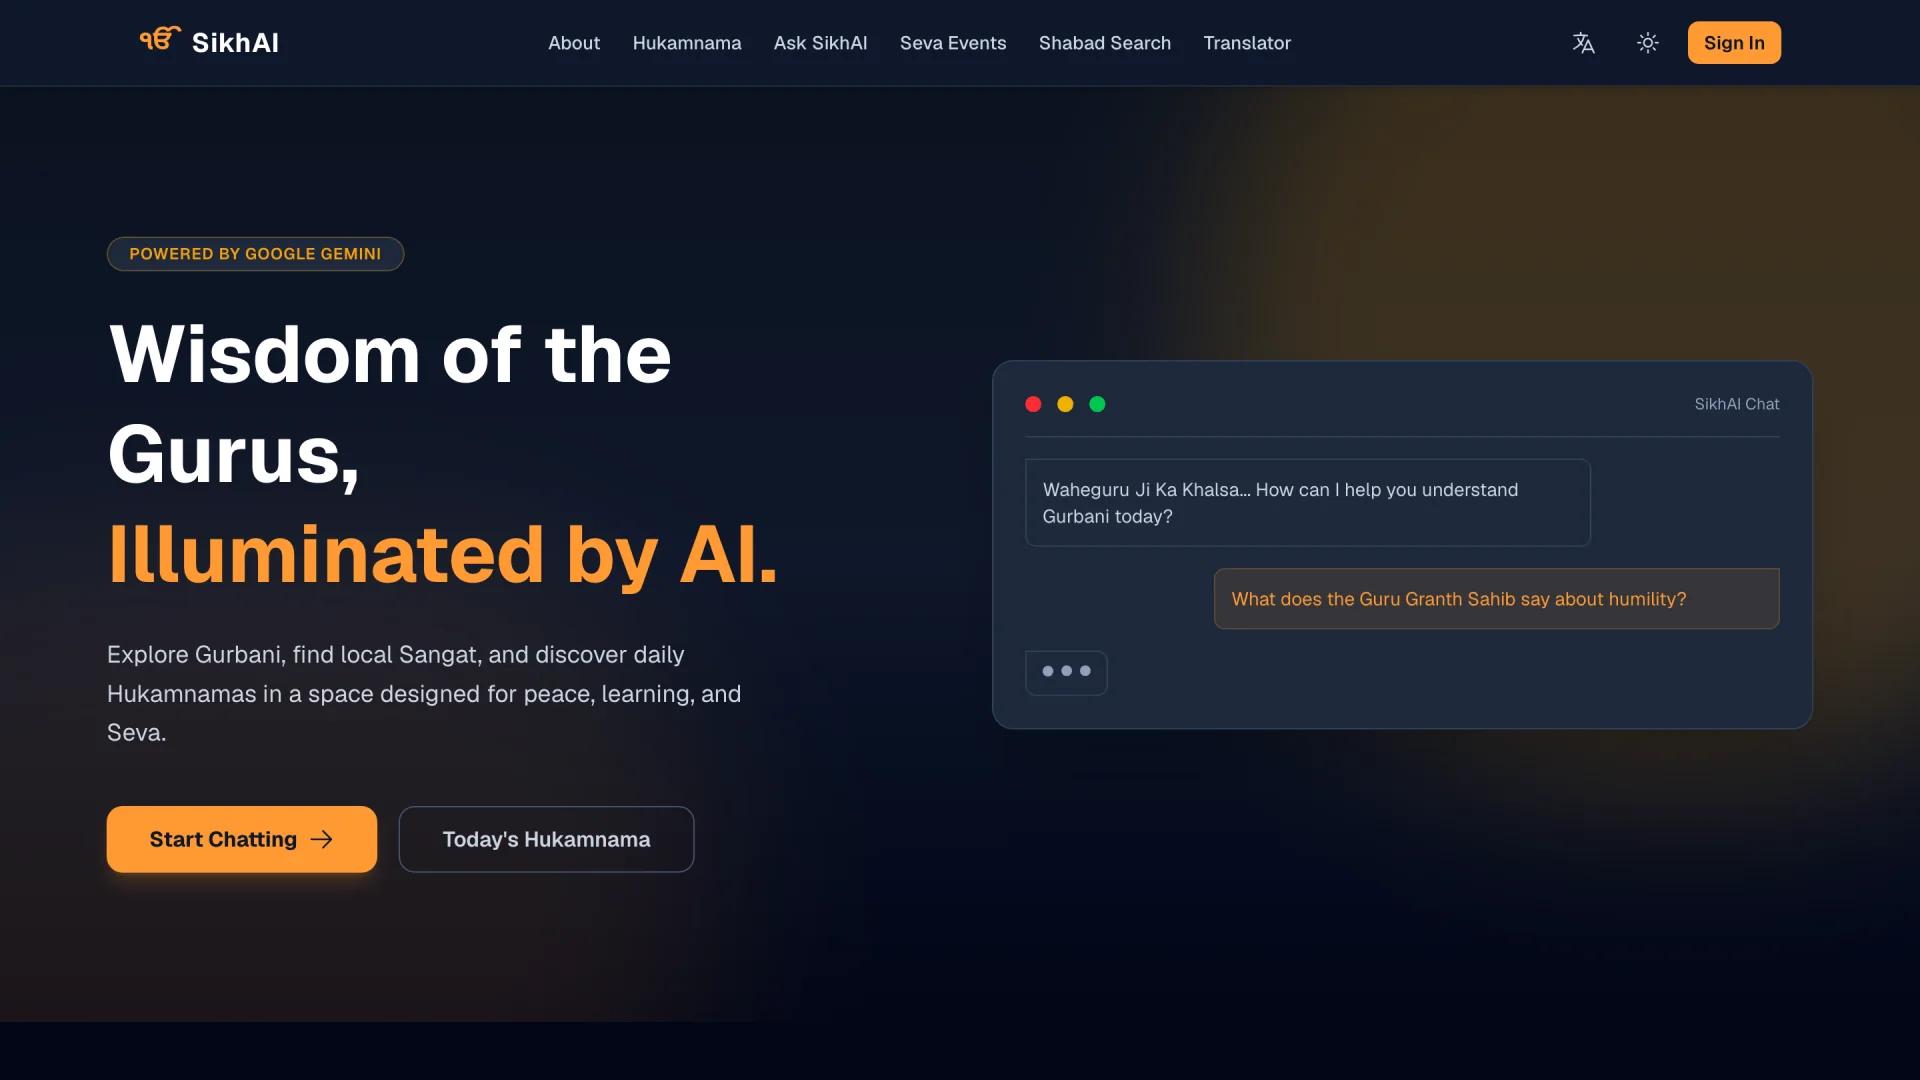
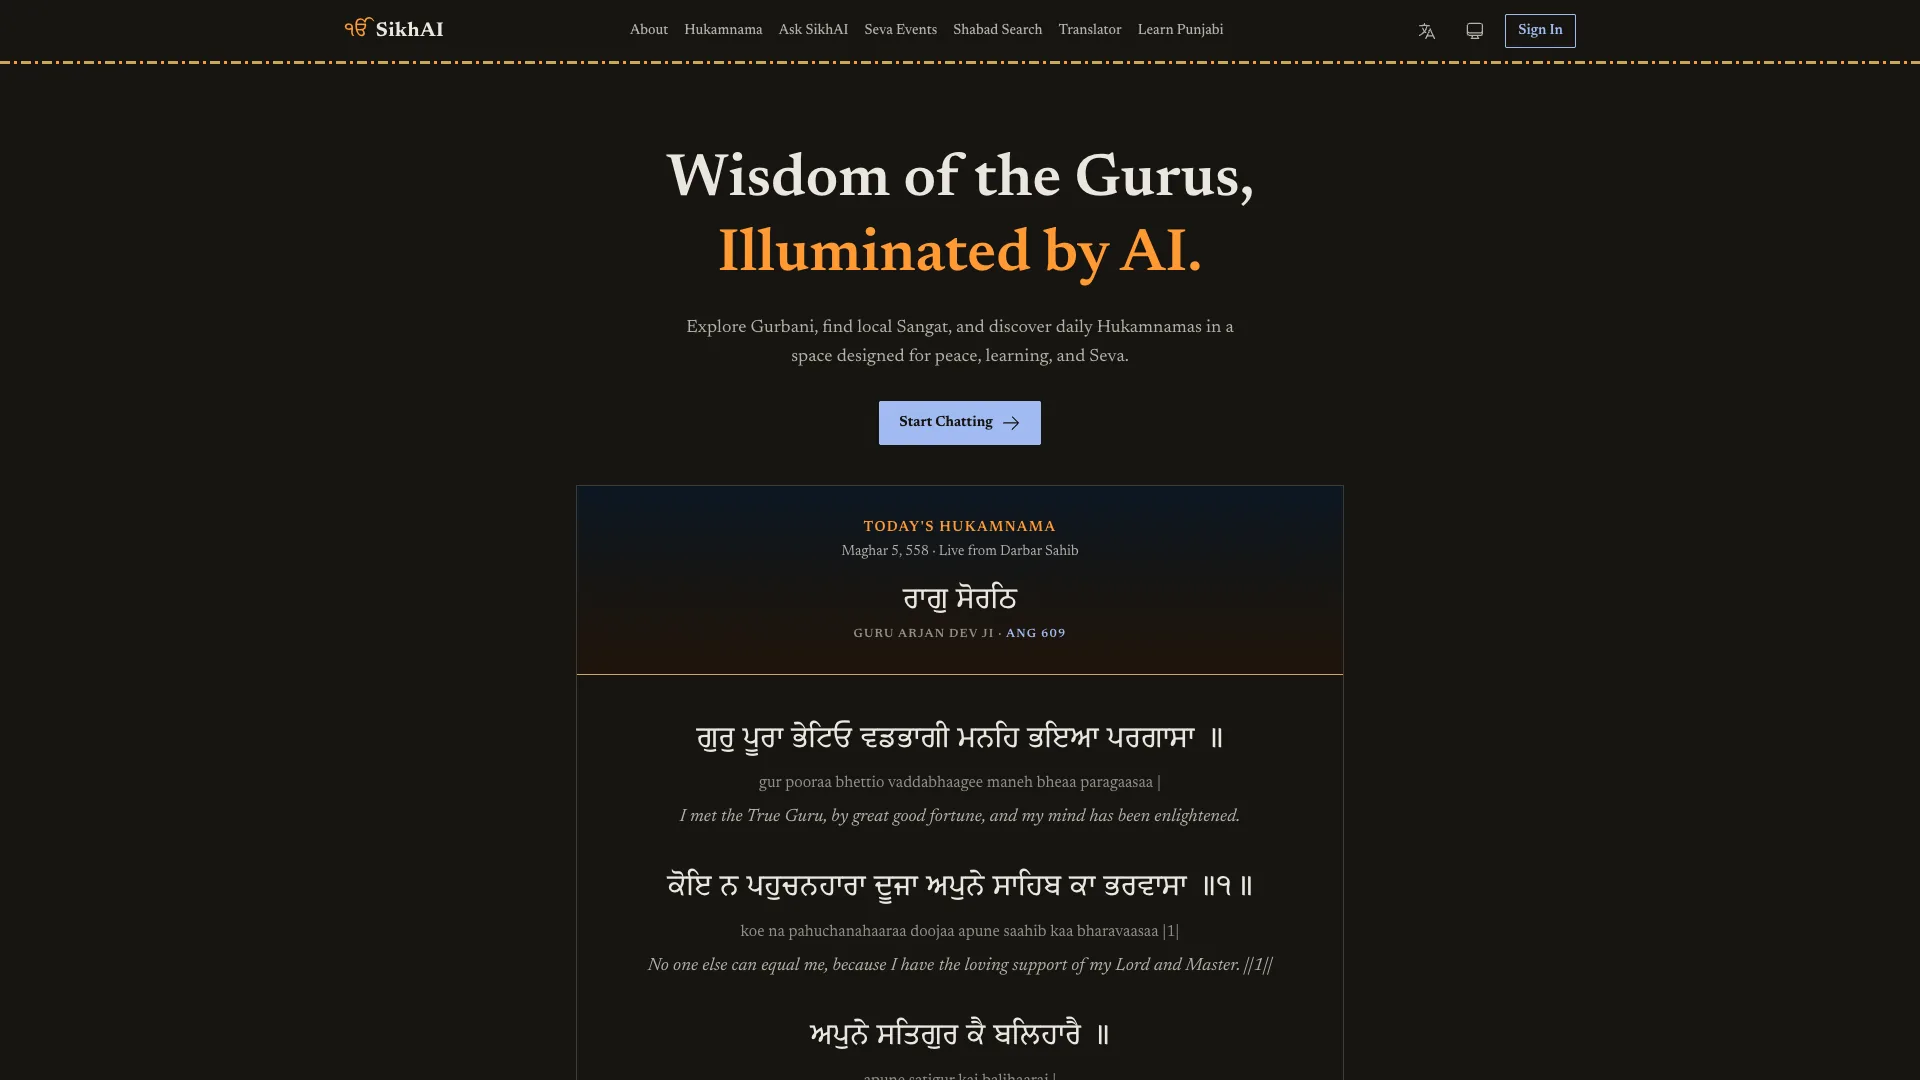
feat: refresh the SikhAI card for the redesigned app (#30)
A new 1920x1080 night-theme capture of the live home page replaces the
old one. It shows the Pothi redesign, with that day's Hukamnama under
the hero; the old capture showed the navy hero and the mock chat
window, both gone from the live site.

The summary and bullet 4 now describe the app as it stands: the check
that matches each reply's quoted Gurbani against the source, the
translator by text or voice, and Punjabi lessons. Bullets 1-3 stay in
Rohan's words. The card avoids "RAG" and "grounded" because the app has
no retrieval step.

The README mirrors the card and adds Tailwind to the tech line.

diff --git a/components/Projects.tsx b/components/Projects.tsx
@@ -123,16 +123,23 @@ const FEATURED: FeaturedProject[] = [
     {
         title: "SikhAI",
         kind: "Full-stack · Generative AI",
+        // Summary and bullet 4 describe the app as of Nov 2026: the Gurbani quote check, Talk
+        // (voice translation) and Learn Punjabi. There is still no retrieval step, so no "RAG" or
+        // "grounded": the check runs after each reply, covers the first six quoted lines
+        // (MAX_CITATIONS in the app's lib/gurbani/citations.ts), and flags a mismatch without
+        // editing the reply.
         summary:
-            "Full-stack spiritual companion: a scripture-grounded AI chatbot, a Punjabi ↔ English translator, Shabad search, the daily Hukamnama, and a community seva board.",
+            "Ask about Sikh teachings and see the Gurbani each answer quotes checked against the source, alongside a Punjabi ↔ English translator by text or voice, Punjabi lessons, Shabad search, the daily Hukamnama, and a seva board.",
         highlights: [
             "Developed a Gemini-powered chatbot to provide spiritual guidance rooted in Sikh teachings.",
             "Engineered a full-stack community platform featuring Firebase Authentication for a Seva volunteer event organizer.",
             "Built an accessible, high-performance Shabad search for the Sikh community using Next.js.",
-            "Production-grade GenAI: schema-constrained JSON for the translator, graceful Cloud Translation fallback, and nonce-fenced prompts that block injection.",
+            "Built a check that runs after each chat reply: up to six quoted Gurbani lines are looked up in the source and matched word for word, and a changed word or a wrong Ang is flagged under the answer.",
         ],
         tech: ["Next.js", "TypeScript", "Gemini", "Firebase", "Tailwind"],
         frame: { kind: "site", url: "https://sikhai.vercel.app/", shot: "/images/projects/sikhai.webp" },
+        // No `sample`: chat, the translator, lessons and Shabad search all work signed out
+        // (joining or hosting a seva needs Google), so "Live site" is the one-click look.
         source: "https://github.com/rohan1234usa/sikh-ai",
         glow: "#F59E0B",
     },

diff --git a/README.md b/README.md
@@ -32,8 +32,8 @@ I **own products end to end**, from drafting spec docs and testing prototypes to
 Practice behavioral answers on camera and see how you actually came across: four delivery scores, a transcript lined up with your voice's tone, and a STAR review of what you said. A multimodal pipeline fuses face, voice, and transcript signals into confidence, clarity, resilience, and engagement scores. Gemini writes résumé-tailored questions, which a mock-interview mode asks back to back, and reviews each answer's STAR structure, with every quote it shows checked against the transcript.
 
 ### [SikhAI](https://sikhai.vercel.app/) · [source](https://github.com/rohan1234usa/sikh-ai)
-*(Next.js, TypeScript, Gemini, Firebase)*  
-Full-stack spiritual companion: a scripture-grounded AI chatbot (ten Guru lenses × five response styles × three languages), a Punjabi ↔ English translator, Shabad search across all 1,430 Angs, the daily Hukamnama, and a community seva board.
+*(Next.js, TypeScript, Gemini, Firebase, Tailwind)*  
+Ask about Sikh teachings and see the Gurbani each answer quotes checked against the source, alongside a Punjabi ↔ English translator by text or voice, Punjabi lessons, Shabad search, the daily Hukamnama, and a seva board. The chat can answer through any of ten Guru lenses, in five response styles and three languages; after each reply, up to six quoted Gurbani lines are looked up and matched word for word, and a changed word or a wrong Ang is flagged. Shabad search finds a shabad from any of its lines, typed in Gurmukhi or English letters, across all 1,430 Angs.
 
 ### Now building
 - **Merge Campus** *(Flutter, Dart, Firebase, Cloud Functions, Gemini, Google Maps)* — where plans with friends come together: a social platform built around doing things in real life, covering the logistics that usually stall an outing — timings, carpools and peer-to-peer rides, bring lists, and the expenses that come with them. I originated the product and, as one of two engineers, lead its system design and built its core pipelines: the Gemini place recommender, receipt scanning into bill splits, the timeline solver, route optimization for carpools, and detour-based matching for peer-to-peer rides. Launching at UC Irvine; pre-launch, so links land here once it's public.
